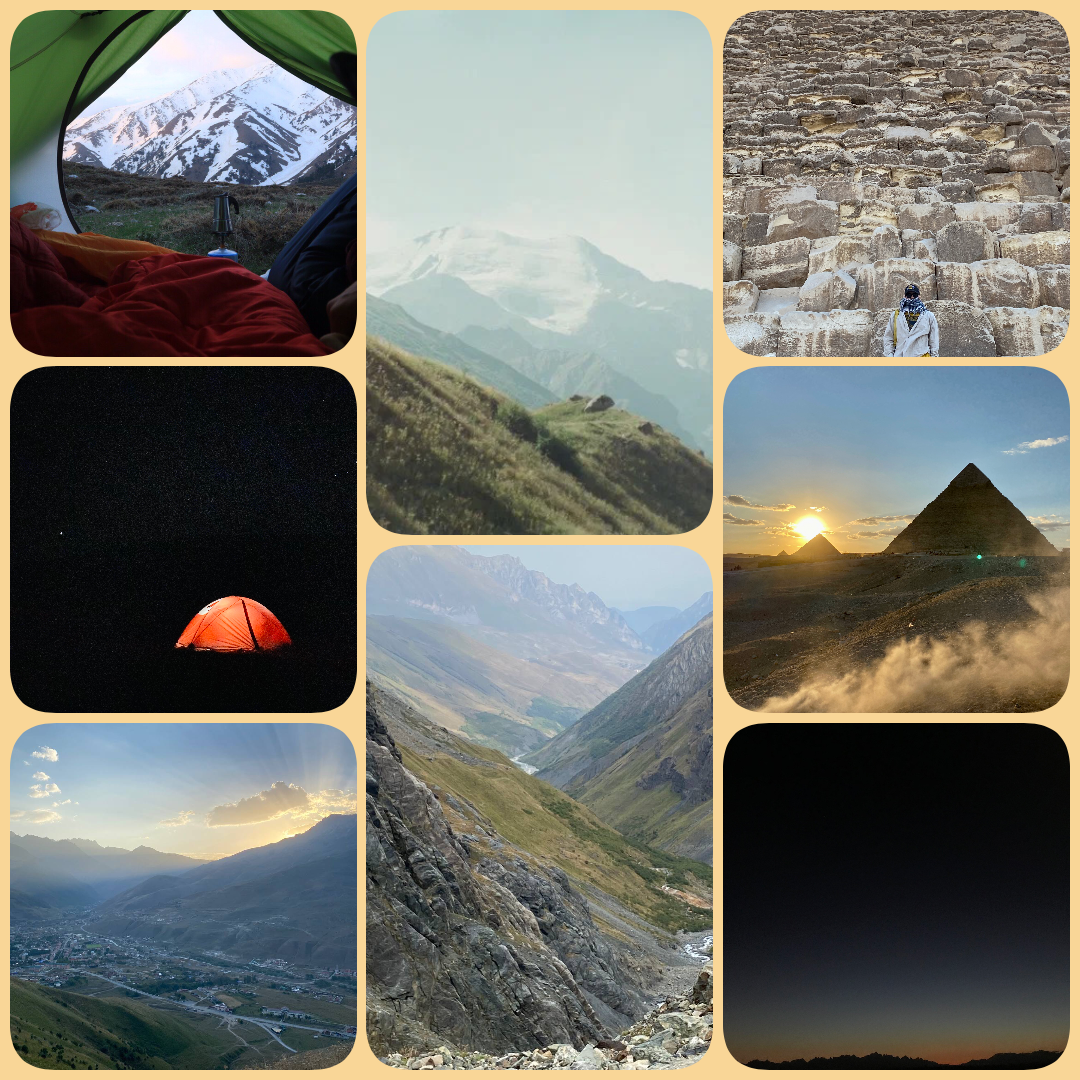
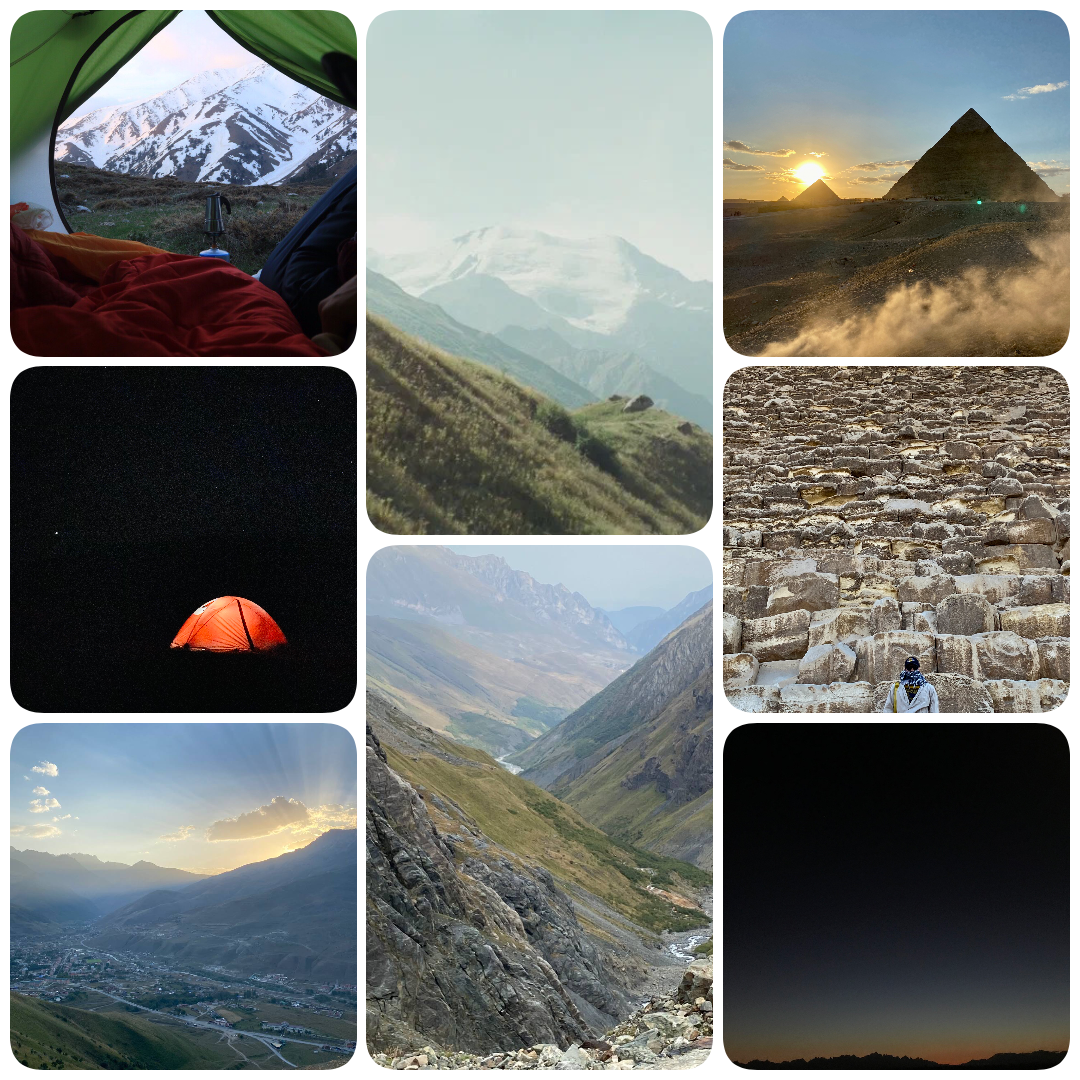
Fix image and description for hobby page

diff --git a/_pages/hobby.md b/_pages/hobby.md
@@ -7,6 +7,6 @@ nav: true
 nav_order: 4
 ---
 
-I love traveling to the mountains because it brings me peace and inspiration. Being in nature, surrounded by high peaks and fresh air, is an amazing feeling. I have visited the beautiful mountains of central Turkey, the wild nature of the Caucasian Reserve, and the impressive landscapes of North Ossetia. I have also traveled to Egypt, where deserts and mountains create unique views, and to China, with its beautiful and diverse scenery. Every trip to the mountains is special for me, giving me energy and unforgettable memories.
+I love travelling to the mountains because it brings me peace and inspiration. Being in nature, surrounded by high peaks and fresh air, is an amazing feeling. I have visited the beautiful mountains of central Turkey, the wild nature of the Caucasian Reserve, and the impressive landscapes of North Ossetia. I have also travelled to Egypt, where deserts and mountains create unique views, and to China, with its beautiful and diverse scenery. Every trip to the mountains is special for me, giving me energy and unforgettable memories.
 
 <img src="../assets/img/mountains.png" style="width:100%; height:100%;">
